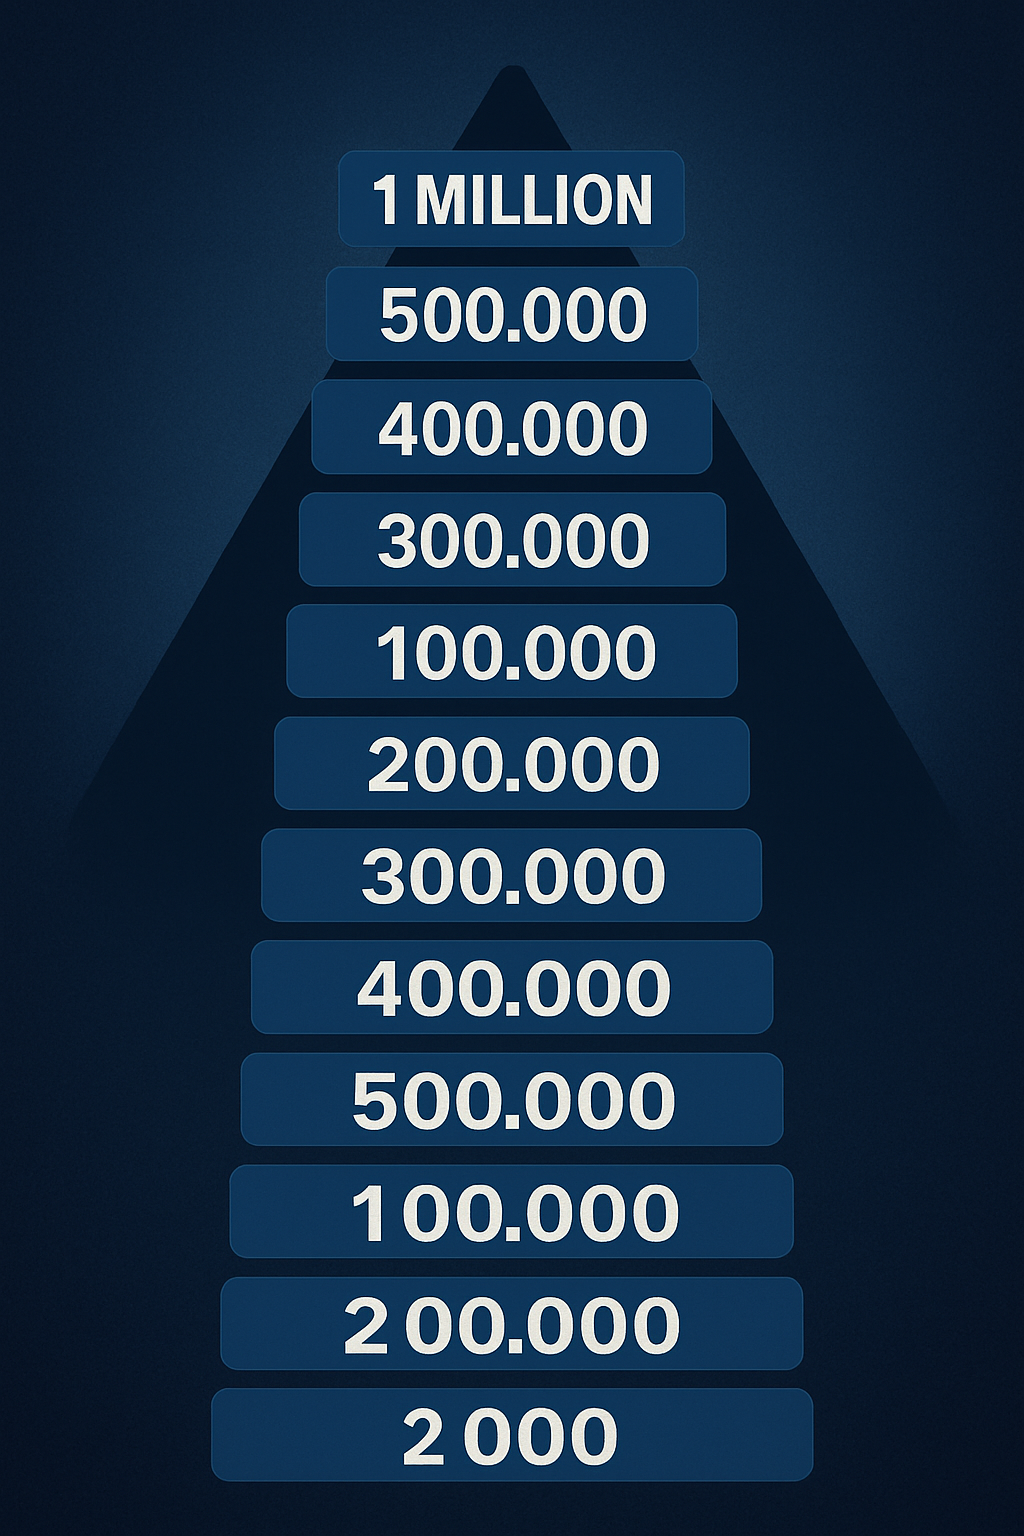
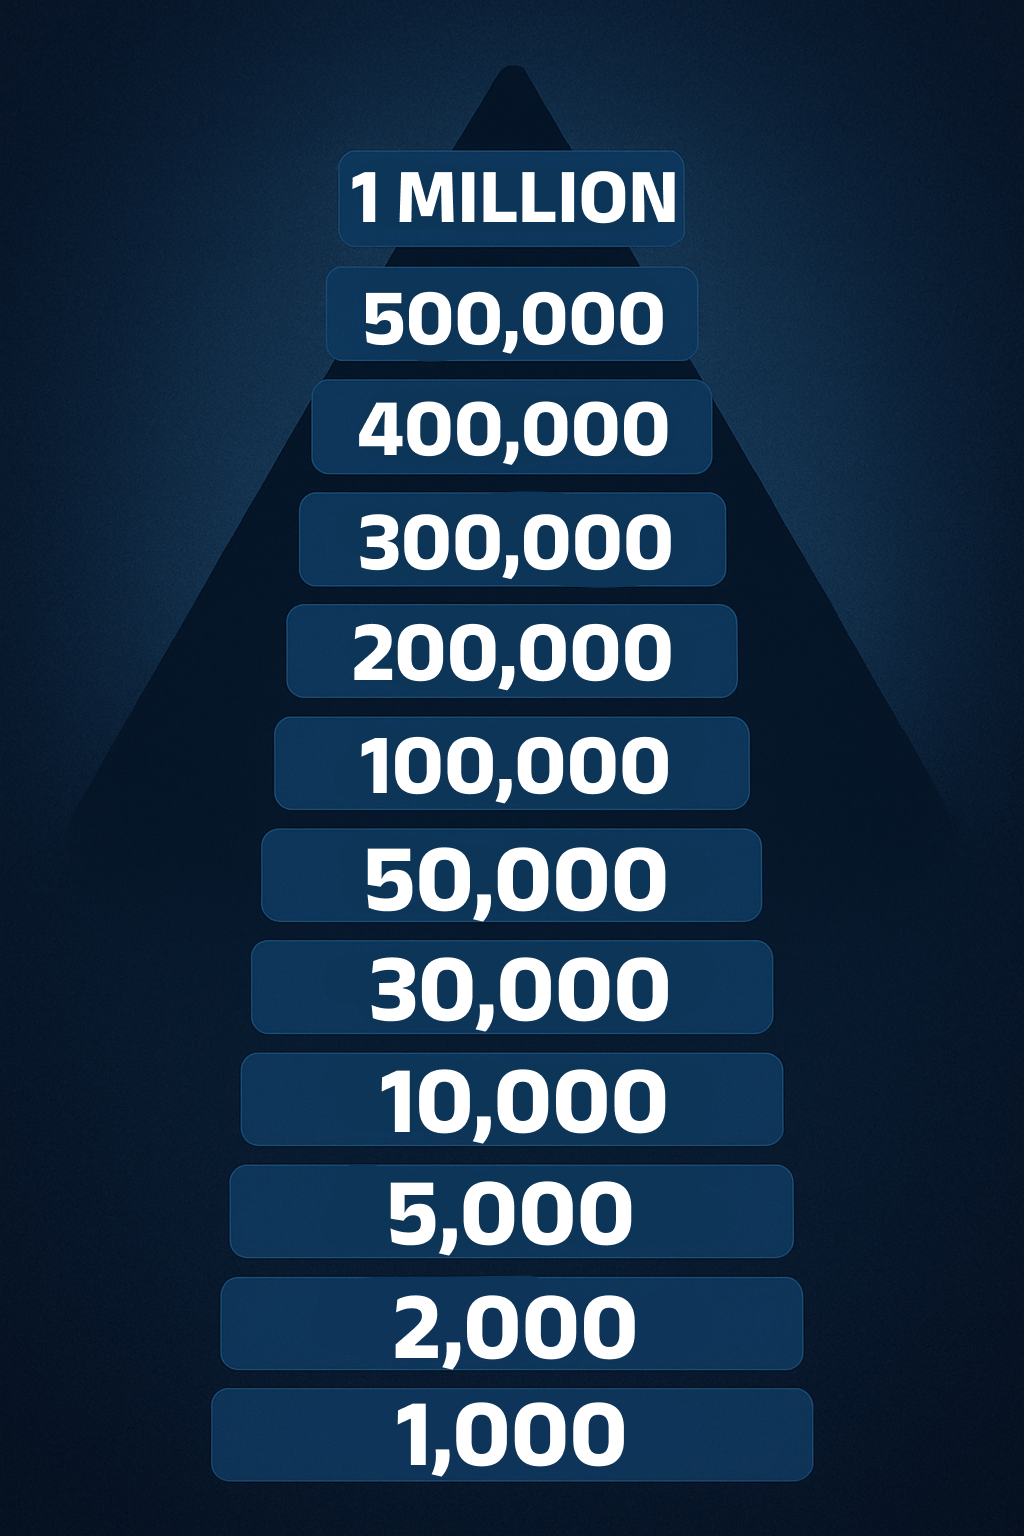
Fix image and header btn

diff --git a/app/page.tsx b/app/page.tsx
@@ -36,8 +36,9 @@ export default function Home() {
                 <p>How far can you go?
                     <Link href={"/auth/create"} className={"auth-link underline hover:text-black ml-1"}>Test it now</Link>
                 </p>
-                <div className={"w-full bg-gold"}>
-                    <Image src={PiramidImage} alt="Prize Route" className="w-full" id="img-shadow"/>
+                <div className={"w-full bg-slate-800"} id="pyramid-img">
+                    <Image src={PiramidImage} alt="Prize Route" className="w-full" id="img-shadow"
+                    />
                 </div>
             </LandSection>
 

diff --git a/components/template/header.tsx b/components/template/header.tsx
@@ -20,7 +20,7 @@ export const Header = ({label, showConfig, showLoginButton, showLogo}: IHeader) 
 
 
     const handleLoginClick = () => {
-        if (isLogged)
+        if (!isLogged)
             return router.push("/auth/create")
 
         router.push("/home")
@@ -44,7 +44,6 @@ export const Header = ({label, showConfig, showLoginButton, showLogo}: IHeader) 
                                 ""}>{isLogged ? "Home" : "SignUp"}
                         </Button>
                     </Bounce>
-
                 )}
             </div>
         </header>

diff --git a/app/globals.css b/app/globals.css
@@ -18,7 +18,7 @@ body {
   /* background: linear-gradient(135deg, var(--back), var(--back-secondary), var(--back-tertiary), var(--back-quaternary)); */
   background: linear-gradient(135deg, var(--back), var(--back-secondary)) no-repeat;
   height: 100%;
-  overflow: scroll;
+  overflow-y: scroll;
 }
 
 /*
@@ -106,6 +106,13 @@ body::-webkit-scrollbar-thumb:hover {
   background-color: #555;
 }
   
+
+@media screen and (max-width: 742px) {
+  body::-webkit-scrollbar {
+    width: 2px;
+  }
+}
+
 
 @theme inline {
   --color-background: var(--background);

diff --git a/components/home/landSection.tsx b/components/home/landSection.tsx
@@ -13,7 +13,7 @@ interface ILandSection {
 * */
 export const LandSection = ({children}: ILandSection) => {
     return (
-            <section className={"landSection px-4 w-full text-start md:text-center max-w-[500px] overflow-visible h-fit"}>
+            <section className={"landSection px-4 w-full text-start md:text-center max-w-[500px] overflow-visible    h-fit"}>
                     {children}
             </section>
     )

diff --git a/components/home/home.css b/components/home/home.css
@@ -10,6 +10,10 @@
     @apply font-oswald text-start opacity-85
 }
 
+#pyramid-img {
+    box-shadow: 6px 4px 10px rgba(0, 16, 49, 0.452);
+}
+
 .drop-area-container {
     transition-property: height;
     transition-duration: 2s;

diff --git a/README.md b/README.md
@@ -1,4 +1,10 @@
 # TODO
-- Testar o btn no header
+- Bug no celular, ele não chega no final ou corta o header; overflow provavelmente
 - Ver se expire do cookie do token já e suficiente
 - colocar uma sombra nas img /
+- Criar home
+    - stats
+    - menus
+    - config
+    - iniciar
+    - continuar
